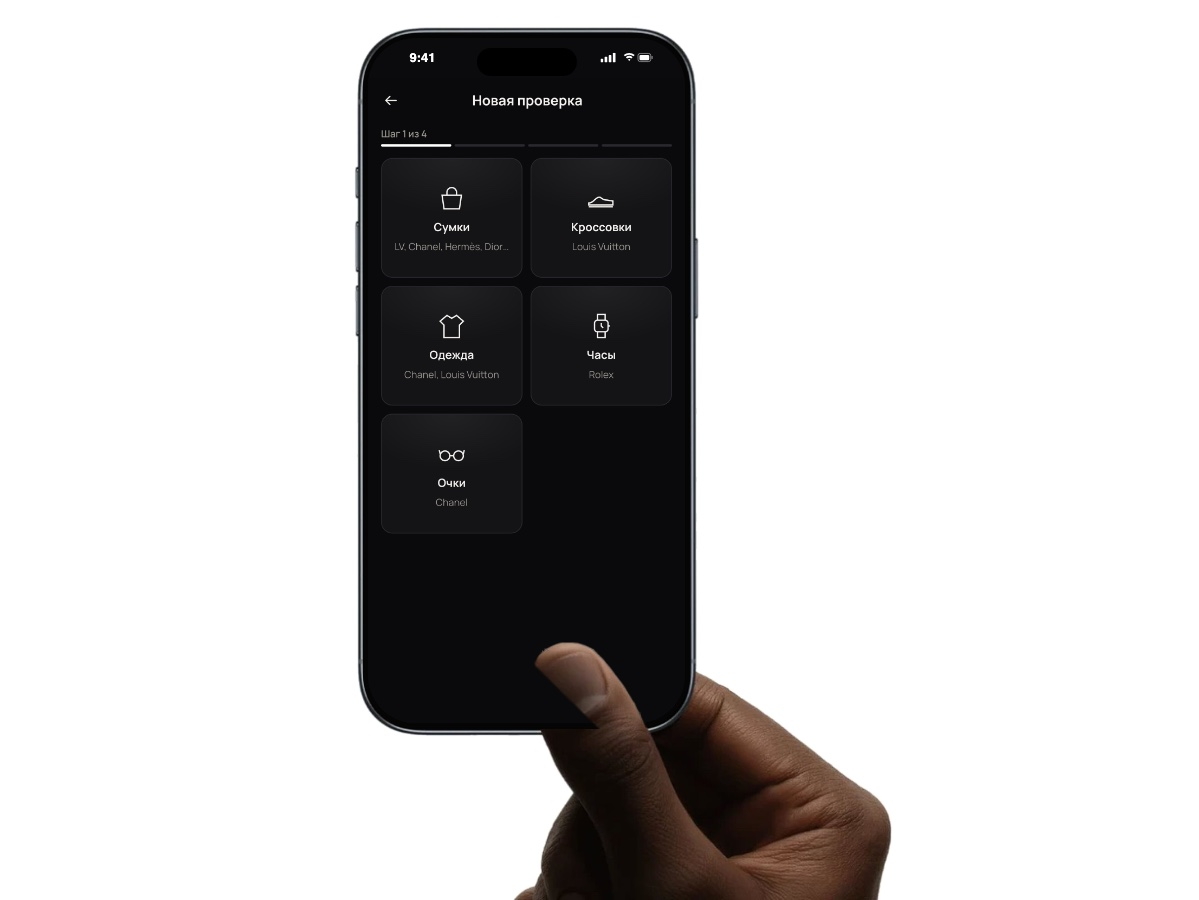
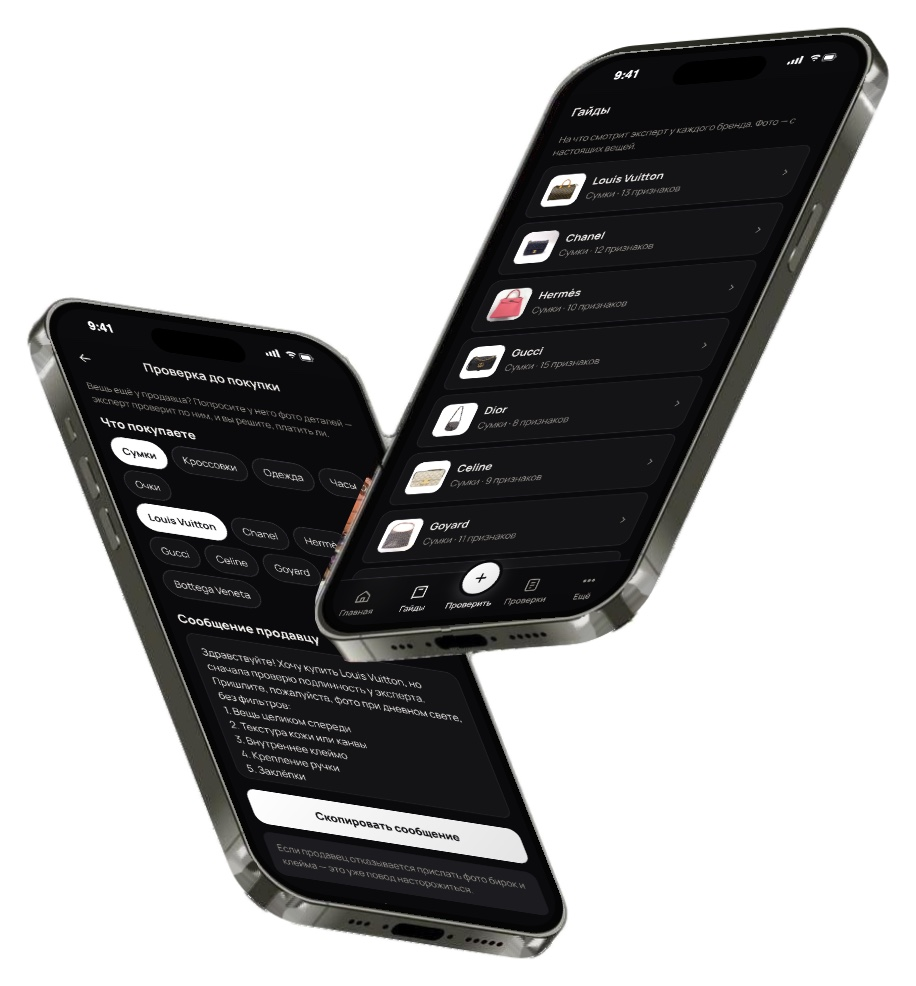
Кейсы: без больших белых полей и без пальца поверх экрана, корпус пары телефонов достроен
- Картинки кейсов обрезаны по устройству, размеры ограничены по кейсам
- Телефон с пальцем на экране заменён на телефон в руке и пару телефонов
- Корпус пары телефонов восстановлен по геометрии вместо заплаток в углах

diff --git a/index.html b/index.html
@@ -982,17 +982,17 @@ const ART = { rsm: 'sphere', royal: 'rings', dash: 'cube' };
 
 const CASES = [
   { id: 'rsm', title: 'Rsm Collection', text: 'Настоящий проект: мой магазин брендовых сумок и мини-приложение для него в Telegram', c: '#e4e1dc',
-    trio: ['img/web/rsm-catalog.jpg', 'img/web/rsm-product.jpg', 'img/web/rsm-sell.jpg'], cardBg: 'img/web/bg/red.jpg', card: 'img/web/cases/card-rsm.jpg?v=1130', href: 'https://t.me/RsmCollectionbot' },
+    trio: ['img/web/rsm-catalog.jpg', 'img/web/rsm-product.jpg', 'img/web/rsm-sell.jpg'], cardBg: 'img/web/bg/red.jpg', card: 'img/web/cases/card-rsm.jpg?v=1131', href: 'https://t.me/RsmCollectionbot' },
   { id: 'rex', title: 'Rex App', text: 'Настоящий проект: моя CRM для перепродажи с ИИ-помощником Rex', c: '#fff',
-    card: 'img/web/cases/card-rex.jpg?v=1129', href: 'https://racksup.ru' },
+    card: 'img/web/cases/card-rex.jpg?v=1131', href: 'https://racksup.ru' },
   { id: 'smile', title: 'Like Smile', text: 'Стоматология: сайт с ценами, врачами, калькулятором и онлайн-записью', c: '#fff',
-    card: 'img/web/cases/card-smile.jpg?v=1129', href: 'https://idjjjd0-cmyk.github.io/like-smale/' },
+    card: 'img/web/cases/card-smile.jpg?v=1131', href: 'https://idjjjd0-cmyk.github.io/like-smale/' },
   { id: 'royal', title: 'The Royal Club', text: 'Барбершоп: сайт, онлайн-запись, бот и дашборд владельца', c: '#121a12',
-    bg: 'img/web/shots/royal-desktop.jpg', ph: 'img/web/royal-dash-m.jpg', cardBg: 'img/web/bg/dots.jpg', cardPh: 'img/web/royal-site-m.jpg', card: 'img/web/cases/card-royal.jpg?v=1129', href: 'demo/royal/index.html' },
+    bg: 'img/web/shots/royal-desktop.jpg', ph: 'img/web/royal-dash-m.jpg', cardBg: 'img/web/bg/dots.jpg', cardPh: 'img/web/royal-site-m.jpg', card: 'img/web/cases/card-royal.jpg?v=1131', href: 'demo/royal/index.html' },
   { id: 'marquee', title: 'MARQUEE', text: 'Кинотеатр в Telegram: афиша, схема зала и вид с места', c: '#fff',
-    card: 'img/web/cases/card-marquee.jpg?v=1129' },
+    card: 'img/web/cases/card-marquee.jpg?v=1131' },
   { id: 'authentic', title: 'Authentic Avenue', text: 'Проверка подлинности вещей: заявка по фото и сертификат с QR-кодом', c: '#fff',
-    card: 'img/web/cases/card-authentic.jpg?v=1129' },
+    card: 'img/web/cases/card-authentic.jpg?v=1131' },
   { id: 'dash', title: 'Дашборд владельца', text: 'Выручка, записи и клиенты барбершопа прямо в Telegram', c: '#111',
     bg: 'img/web/royal-dash-d.jpg', ph: 'img/web/royal-dash-m.jpg', card: 'img/web/mockups/card-dash.jpg?v=1104c', href: 'demo/royal-crm/index.html?demo=1' }
 ];
@@ -1689,33 +1689,33 @@ const CASE = {
     left: ['Каталог с фото и ценами', 'Поиск по бренду и модели', 'Фильтры и сортировка'], right: ['Избранное', 'Заявка менеджеру', 'Раздел «Продать»'],
     metrics: [['12', 'лотов в каталоге'], ['300+', 'подписчиков Telegram-канала'], ['4', 'раздела приложения']],
     chart: { unit: ['просмотр', 'просмотра', 'просмотров'], vals: [3, 2, 4, 3, 5, 4, 6, 5, 4, 6, 7, 6] } },
-  rex: { kind: 'Реальный проект', nochart: true, tags: ['CRM', 'Аналитика', 'ИИ-помощник'], h: 'Rex App: CRM для перепродажи с ИИ-помощником',
+  rex: { kind: 'Реальный проект', nochart: true, shotMax: 560, tags: ['CRM', 'Аналитика', 'ИИ-помощник'], h: 'Rex App: CRM для перепродажи с ИИ-помощником',
     lead: 'Моя собственная система учёта для перепродажи сумок. Вещи, деньги и продажи в одном месте, а Rex отвечает по цифрам за секунды.', did: 'веб-приложение, вход через Telegram и Google, аналитика прибыли и ИИ-помощник',
-    lap: 'img/web/cases/rex-hero.jpg?v=1129', ph: 'img/web/cases/res-rex.jpg?v=1129', shot: 'img/web/cases/after-rex.jpg?v=1129', demo: 'https://racksup.ru', demoLabel: 'Открыть Rex App',
+    lap: 'img/web/cases/rex-hero.jpg?v=1131', ph: 'img/web/cases/res-rex.jpg?v=1131', shot: 'img/web/cases/after-rex.jpg?v=1131', demo: 'https://racksup.ru', demoLabel: 'Открыть Rex App',
     before: ['Учёт в таблице, формулы ломаются', 'Прибыль считается вручную в конце месяца', 'Непонятно, что закупать и что уценить'],
     after: ['Прибыль по дням, брендам и площадкам', 'Деньги в товаре и срок продажи на главном экране', 'Rex подсказывает, что закупать и что уценить'],
     steps: ['Разбираю свою таблицу учёта', 'Выбираю главные цифры', 'Собираю экран «Главная»', 'Вещи, деньги, Rex AI', 'Автотесты и запуск'],
     left: ['Вещи и поставщики', 'Продажи и расходы', 'Учёт закупок в юанях'], right: ['Аналитика по брендам', 'Площадки продаж', 'Rex AI: можно спросить голосом'],
     metrics: [['2', 'способа входа: Telegram и Google'], ['221', 'автотест перед каждым обновлением'], ['4', 'режима ответа Rex AI']] },
-  smile: { kind: 'Реальный проект', nochart: true, tags: ['Сайт', 'Онлайн-запись', 'Стоматология'], h: 'Like Smile: сайт стоматологии с онлайн-записью',
+  smile: { kind: 'Реальный проект', nochart: true, heroMax: 540, shotMax: 400, tags: ['Сайт', 'Онлайн-запись', 'Стоматология'], h: 'Like Smile: сайт стоматологии с онлайн-записью',
     lead: 'Пациент видит цены, врачей и отзывы и записывается на консультацию с телефона за минуту.', did: 'сайт на 19 блоков, онлайн-запись, калькулятор стоимости, версия для телефона',
-    lap: 'img/web/cases/smile-hero.jpg?v=1129', ph: 'img/web/cases/res-smile.jpg?v=1129', shot: 'img/web/cases/after-smile.jpg?v=1129', demo: 'https://idjjjd0-cmyk.github.io/like-smale/', demoLabel: 'Открыть сайт',
+    lap: 'img/web/cases/smile-hero.jpg?v=1131', ph: 'img/web/cases/res-smile.jpg?v=1131', shot: 'img/web/cases/after-smile.jpg?v=1131', demo: 'https://idjjjd0-cmyk.github.io/like-smale/', demoLabel: 'Открыть сайт',
     before: ['Цену лечения узнают только по телефону', 'Непонятно, к какому врачу идти', 'Записаться можно только в рабочие часы'],
     after: ['Цены «от» и калькулятор стоимости', 'Врачи, стаж и отзывы на одной странице', 'Запись на ближайшее время в пару нажатий'],
     steps: ['Разбираем, что важно пациенту', 'Собираем структуру из 19 блоков', 'Дизайн и экран записи', 'Вёрстка, калькулятор, адаптив', 'Публикуем и проверяем на телефонах'],
     left: ['Онлайн-запись', 'Цены и рассрочка 0%', 'Калькулятор стоимости'], right: ['Врачи и их стаж', 'Отзывы пациентов', 'Раздел про имплантацию'],
     metrics: [['19', 'блоков на главной'], ['6', 'разделов в меню'], ['1 минута', 'на запись с телефона']] },
-  marquee: { kind: 'Реальный проект', nochart: true, tags: ['Мини-приложение', 'Telegram', 'Кинотеатр'], h: 'MARQUEE: билеты в кино прямо в Telegram',
+  marquee: { kind: 'Реальный проект', nochart: true, heroMax: 440, shotMax: 560, tags: ['Мини-приложение', 'Telegram', 'Кинотеатр'], h: 'MARQUEE: билеты в кино прямо в Telegram',
     lead: 'Зритель выбирает фильм, сеанс и место и покупает билет, не скачивая отдельное приложение.', did: 'мини-приложение в Telegram: афиша, трейлеры, схема зала и вид с места',
-    lap: 'img/web/cases/marquee-hero.jpg?v=1129', ph: 'img/web/cases/res-marquee.jpg?v=1129', shot: 'img/web/cases/after-marquee.jpg?v=1129',
+    lap: 'img/web/cases/marquee-hero.jpg?v=1131', ph: 'img/web/cases/res-marquee.jpg?v=1131', shot: 'img/web/cases/after-marquee.jpg?v=1131',
     before: ['Для билета нужно скачать приложение или идти на сайт', 'Неясно, хорошо ли видно с выбранного места', 'Афиша, трейлеры и сеансы в разных местах'],
     after: ['Афиша, трейлеры и сеансы в одном окне', 'Свободные места видно сразу на схеме', 'Вид с места до покупки'],
     steps: ['Смотрим, как покупают билеты', 'Путь: фильм → сеанс → место', 'Собираем схему зала', 'Афиша, трейлеры, вид с места', 'Проверяем на телефонах'],
     left: ['Афиша и новинки', 'Трейлеры', 'Расписание сеансов'], right: ['Схема зала', 'Вид с выбранного места', 'Итоговая цена до оплаты'],
     metrics: [['9', 'рядов на схеме зала'], ['3D', 'вид с места до покупки'], ['0 установок', 'всё открывается в Telegram']] },
-  authentic: { kind: 'Реальный проект', nochart: true, tags: ['Мини-приложение', 'Сервис', 'Люкс'], h: 'Authentic Avenue: проверка подлинности вещей',
+  authentic: { kind: 'Реальный проект', nochart: true, heroMax: 440, shotMax: 560, tags: ['Мини-приложение', 'Сервис', 'Люкс'], h: 'Authentic Avenue: проверка подлинности вещей',
     lead: 'Покупатель присылает фото вещи и получает ответ эксперта и сертификат с QR-кодом, ещё до покупки.', did: 'мини-приложение: заявка на проверку, отчёт эксперта, сертификат и гайды по брендам',
-    lap: 'img/web/cases/authentic-hero.jpg?v=1129', ph: 'img/web/cases/res-authentic.jpg?v=1129', shot: 'img/web/cases/after-authentic.jpg?v=1129',
+    lap: 'img/web/cases/authentic-hero.jpg?v=1131', ph: 'img/web/cases/res-authentic.jpg?v=1131', shot: 'img/web/cases/after-authentic.jpg?v=1131',
     before: ['Купить подделку легко, проверить сложно', 'Эксперта ищут через знакомых', 'Нечем подтвердить, что вещь оригинальная'],
     after: ['Заявка на проверку по фото', 'Ответ эксперта от 15 минут', 'Сертификат с QR-кодом'],
     steps: ['Разбираем, как проверяют вещи', 'Решаем, что присылает клиент', 'Собираем экран заявки', 'Отчёт, сертификат, гайды', 'Проверяем на телефонах'],
@@ -1792,13 +1792,13 @@ function renderCase(id) {
       <div><h1 class="blur">${esc(c.h)}</h1><p class="lead rv" style="--d:120ms">${esc(c.lead)}</p>
         <small class="rv" style="--d:200ms">Что сделали</small><p class="rv" style="--d:240ms">${esc(c.did)}</p>
         ${c.demo ? `<div class="acts rv" style="--d:300ms">${rollBtn(c.demoLabel || 'Открыть демо', `href="${c.demo}" target="_blank" rel="noopener"`)}</div>` : ''}</div>
-      <img class="fly" style="--d:250ms${c.tall && !c.lap ? ';max-width:440px;justify-self:center' : ''}" src="${c.lap || c.ph}" alt="${esc(meta.title)}: макет">
+      <img class="fly" style="--d:250ms${c.tall && !c.lap ? ';max-width:440px;justify-self:center' : ''}${c.heroMax ? `;max-width:${c.heroMax}px;justify-self:center` : ''}" src="${c.lap || c.ph}" alt="${esc(meta.title)}: макет">
     </section>
     <section class="cs-sec cs-ba">
       <svg class="cs-arrow rv" viewBox="0 0 300 200" aria-hidden="true"><path d="M4 20C150-10 300 30 250 110c-20 34-50 60-84 84m0 0l24-4m-24 4l6-24"/></svg>
       <div><h2 class="rv">До <em>запуска</em></h2><ul>${c.before.map((t, i) => `<li class="rv" style="--d:${i * 80}ms">${ICO.x}${esc(t)}</li>`).join('')}</ul></div><div></div>
       <div class="cs-after"><h2 class="rv">После <em>запуска</em></h2><ul>${c.after.map((t, i) => `<li class="rv" style="--d:${i * 80}ms">${ICO.ok}${esc(t)}</li>`).join('')}</ul></div>
-      <div class="cs-after"><img class="cs-shot fly" loading="lazy" ${c.tall ? 'style="max-width:560px;box-shadow:none"' : ''} src="${c.shot}" alt="${esc(meta.title)}: после запуска"></div>
+      <div class="cs-after"><img class="cs-shot fly" loading="lazy" ${c.tall ? 'style="max-width:560px;box-shadow:none"' : c.shotMax ? `style="max-width:${c.shotMax}px;display:block;margin:0 auto"` : ''} src="${c.shot}" alt="${esc(meta.title)}: после запуска"></div>
     </section>
     ${c.bot ? `<section class="cs-sec cs-bot"><h2 class="cs-h blur">${esc(c.botT || 'Запись в боте')}</h2><p class="sub rv">${esc(c.botS || 'Клиент записывается прямо в Telegram, без звонка и без сайта')}</p><div class="cs-botgrid" style="--cols:${Math.min(c.bot.length, 3)}">${c.bot.map((b, i) => `<figure class="rv" style="--d:${i * 110}ms${c.bot.length === 1 ? ';max-width:880px;width:100%;margin:0 auto' : ''}"><img loading="lazy" decoding="async" src="${b[0]}" alt="${esc(b[1])}"><figcaption>${c.bot.length > 1 ? `<b>${i + 1}</b>` : ''}${esc(b[1])}</figcaption></figure>`).join('')}</div></section>` : ''}
     <section class="cs-sec">
